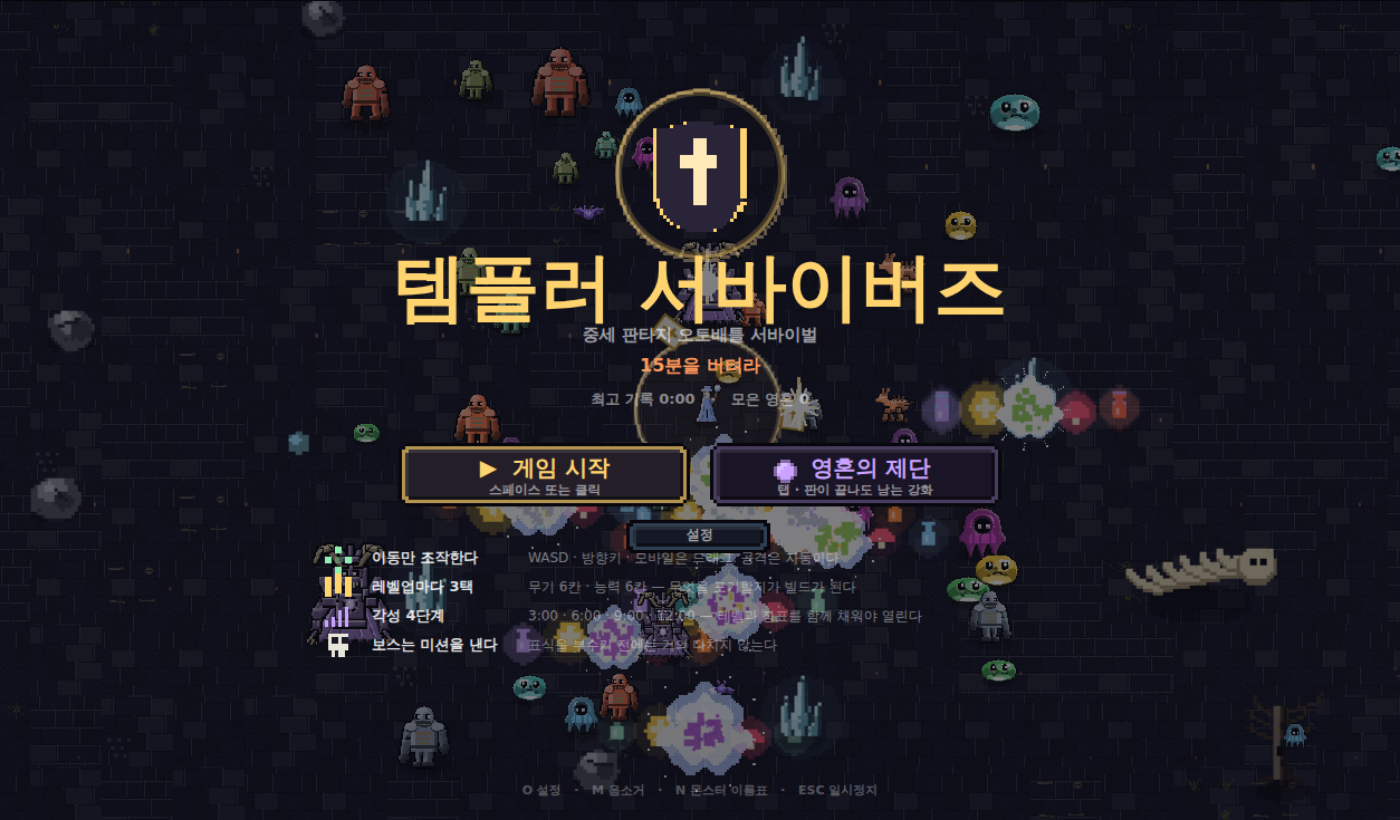
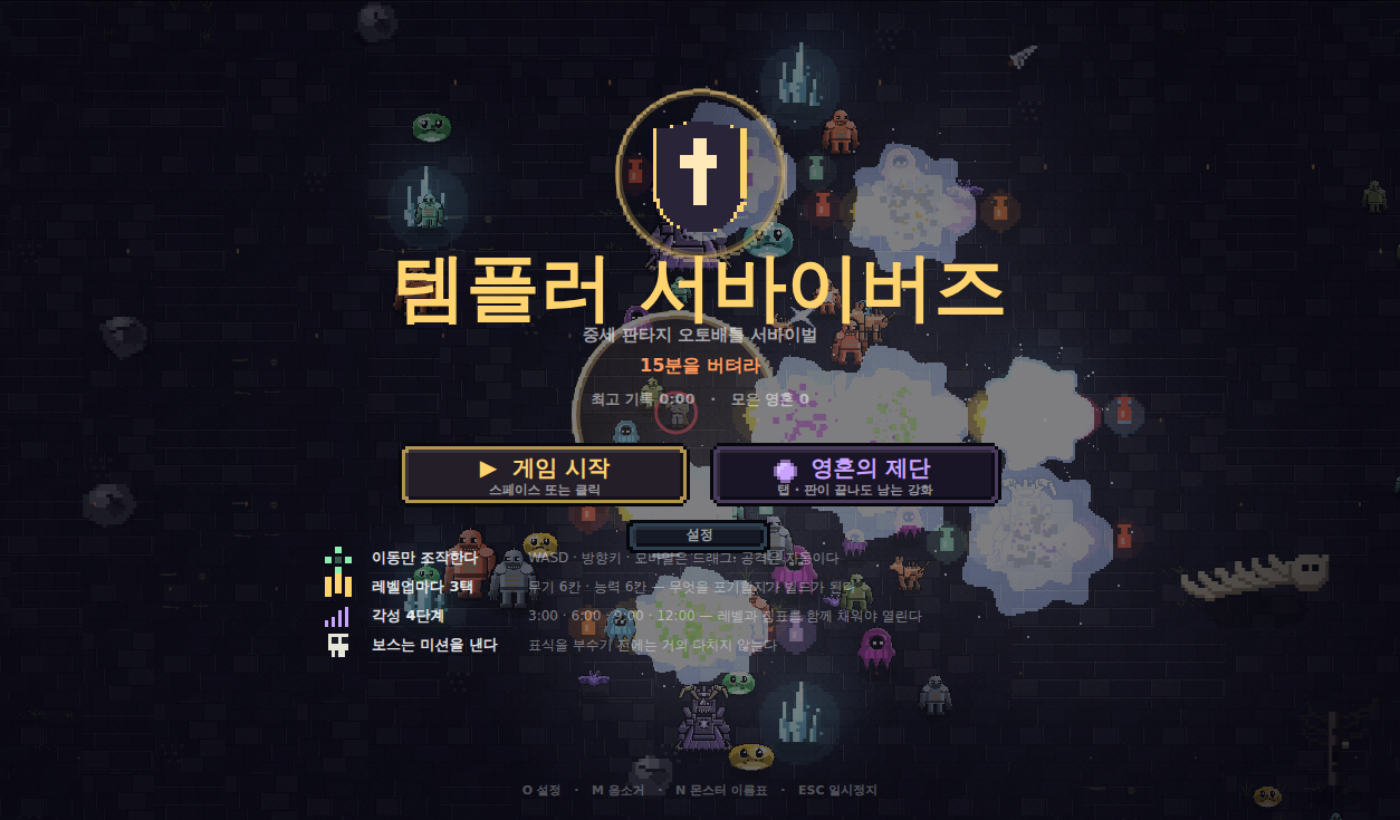
빛 — 화면 전체가 같은 밝기였다
레퍼런스 그림과의 차이 중 픽셀 수로 설명되지 않는 가장 큰 것. 그림을 한 픽셀도
다시 그리지 않고 공간이 생긴다.

화면 1/4 크기 판에 어둠을 깔고 광원 자리를 destination-out 으로 지운 뒤,
보간 없이 확대해 월드 위에 덮는다. 1/4 로 그리는 것이 핵심이다 — 원본 해상도로
그리면 매끈한 그라디언트가 되어 격자에 맞춘 나머지 전부와 재질이 어긋난다.
낮은 해상도에서 그린 뒤 늘리면 빛도 계단이 된다.

구멍을 뚫으면 그 자리는 원래 밝기일 뿐이라 불이 '타고 있다'가 안 된다.
같은 판을 한 번 더 써서 화톳불·수정·폭발 자리에 속성색을 lighter 로 더한다.

여기서 틀린 것: 타격 이펙트까지 광원으로 두니 후반에 백 개가 겹쳐 화면이
하얗게 날아갔다(폭발만, 여덟 개까지) · 정거리 감쇠는 가장자리에 동그란 테를
남긴다(단계를 넷으로) · 계측을 두 번 잘못 짜서 '조명 켠 쪽이 더 빠르다'가
나왔다(frame() 전체를 재면 update() 가 값을 삼킨다).

계측: drawLighting() 이 적 211마리에서 중앙 1.00ms — 60fps 예산의 6%.
어두우면 못 보겠다는 사람이 반드시 나오므로 설정에 끔/약하게/기본을 뒀다.

테스트 16종 전부 통과.

Claude-Session: https://claude.ai/code/session_01Lk8ZeD5vbnXzdEzvLkpny8

diff --git a/game/index.html b/game/index.html
@@ -121,11 +121,11 @@ function hash2(x, y) {
    화면 흔들림이 불편하다든가, 숫자가 어지럽다든가 — 어느 것도 손댈 수가 없었다.
    값은 단계로만 둔다. 슬라이더는 터치에서 잡기 어렵고, 이 정도 항목에 과하다. */
 const Opt = {
-  sfx: 4, music: 4, shake: 2, names: 1, numbers: 1,
+  sfx: 4, music: 4, shake: 2, names: 1, numbers: 1, light: 2,
   load() {
     try {
       const o = JSON.parse(localStorage.getItem("ts_opt") || "{}");
-      for (const k of ["sfx", "music", "shake", "names", "numbers"])
+      for (const k of ["sfx", "music", "shake", "names", "numbers", "light"])
         if (typeof o[k] === "number") this[k] = o[k];
     } catch (e) { /* 못 읽어도 기본값으로 돈다 */ }
   },
@@ -133,7 +133,7 @@ const Opt = {
     try {
       localStorage.setItem("ts_opt", JSON.stringify({
         sfx: this.sfx, music: this.music, shake: this.shake,
-        names: this.names, numbers: this.numbers }));
+        names: this.names, numbers: this.numbers, light: this.light }));
     } catch (e) { /* 저장 불가여도 게임은 돈다 */ }
   },
   sfxVol() { return this.sfx / 4 * .25; },
@@ -152,6 +152,8 @@ const OPT_ROWS = [
   { key: "shake",   name: "화면 흔들림",  max: 2, labels: ["끔", "절반", "기본"] },
   { key: "names",   name: "몬스터 이름표", max: 1, labels: ["끔", "켬"] },
   { key: "numbers", name: "피해 숫자",     max: 1, labels: ["끔", "켬"] },
+  /* 어두우면 못 보겠다는 사람이 반드시 나온다. 이건 분위기지 정보가 아니므로 끌 수 있어야 한다. */
+  { key: "light",   name: "조명",          max: 2, labels: ["끔", "약하게", "기본"] },
 ];
 Opt.load();
 
@@ -6299,6 +6301,135 @@ function advColor() {
 
 let selectedClass = 0;
 
+/* ---------- 빛 ----------
+   여기까지 오면서 그림은 조밀해졌는데 화면은 여전히 '전부 같은 밝기'였다.
+   레퍼런스 그림과의 차이 중 픽셀 수로 설명되지 않는 가장 큰 것이 이것이다 —
+   화톳불 옆이 밝고 구석이 어두우면 같은 그림도 공간이 된다.
+
+   방식: 화면 크기의 1/4 짜리 판에 어둠을 깔고, 광원 자리를 지워(destination-out)
+   구멍을 낸 뒤, 그 판을 확대해 월드 위에 덮는다.
+
+   1/4 로 그리는 것이 핵심이다. 원본 해상도로 그리면 매끈한 그라디언트가 되어
+   이 게임의 다른 모든 것(격자에 맞춘 픽셀)과 재질이 어긋난다.
+   낮은 해상도에서 그린 뒤 보간 없이 늘리면 빛도 계단이 된다 —
+   스프라이트의 lightMap 을 3단계로 끊은 것과 같은 이유다. */
+const LIGHT_K = 4;
+let lightCv = null, lightCtx = null;
+function drawLighting() {
+  if (!Opt.light) return;
+  const lw = Math.ceil(W / LIGHT_K), lh = Math.ceil(H / LIGHT_K);
+  if (!lightCv) { lightCv = document.createElement("canvas"); lightCtx = lightCv.getContext("2d"); }
+  if (lightCv.width !== lw || lightCv.height !== lh) { lightCv.width = lw; lightCv.height = lh; }
+  const g2 = lightCtx;
+  const str = Opt.light === 1 ? .55 : 1;           // '약하게'
+  g2.setTransform(1, 0, 0, 1, 0, 0);
+  g2.globalCompositeOperation = "source-over";
+  g2.clearRect(0, 0, lw, lh);
+  g2.fillStyle = "rgba(8,6,22," + (.34 * str).toFixed(3) + ")";
+  g2.fillRect(0, 0, lw, lh);
+  // 가장자리를 더 어둡게 — 시선이 가운데로 모인다
+  const vg = g2.createRadialGradient(lw / 2, lh / 2, lh * .32, lw / 2, lh / 2, lh * .95);
+  vg.addColorStop(0, "rgba(6,4,16,0)");
+  vg.addColorStop(1, "rgba(6,4,16," + (.30 * str).toFixed(3) + ")");
+  g2.fillStyle = vg; g2.fillRect(0, 0, lw, lh);
+
+  g2.globalCompositeOperation = "destination-out";
+  const punch = (wx, wy, r, core) => {
+    const cx = (wx - cam.x) / LIGHT_K, cy = (wy - cam.y) / LIGHT_K, rr = r / LIGHT_K;
+    if (cx < -rr || cx > lw + rr || cy < -rr || cy > lh + rr) return;
+    /* 정거리 감쇠(0→.5→1)는 가장자리에 동그란 테를 남긴다.
+       실제 빛처럼 안쪽은 완만하고 바깥으로 갈수록 빨리 죽게 단계를 더 준다. */
+    const k = core === undefined ? 1 : core;
+    const gr = g2.createRadialGradient(cx, cy, 0, cx, cy, rr);
+    gr.addColorStop(0, "rgba(0,0,0," + k.toFixed(3) + ")");
+    gr.addColorStop(.40, "rgba(0,0,0," + (k * .82).toFixed(3) + ")");
+    gr.addColorStop(.68, "rgba(0,0,0," + (k * .44).toFixed(3) + ")");
+    gr.addColorStop(.87, "rgba(0,0,0," + (k * .14).toFixed(3) + ")");
+    gr.addColorStop(1, "rgba(0,0,0,0)");
+    g2.fillStyle = gr;
+    g2.beginPath(); g2.arc(cx, cy, rr, 0, TAU); g2.fill();
+  };
+
+  /* 광원. 주인공은 반드시 넣는다 — 자기 발밑이 어두우면 게임이 안 된다. */
+  punch(player.x, player.y, 310 + (player.stance ? 50 : 0));
+  for (const o of obstacles) {
+    if (o.kind === "brazier") punch(o.x, o.y - o.r * .4, o.r * 7 + Math.sin(Game.time * 6 + o.seed * 9) * 8);
+    else if (o.kind === "crystal") punch(o.x, o.y - o.r, o.r * 4.2, .8);
+    else if (o.kind === "obelisk") punch(o.x, o.y - o.r * 2, o.r * 3.4, .6);
+  }
+  for (const st of structures) punch(st.x, st.y, st.r * 2.6, .75);
+  for (const lm of landmarks) punch(lm.x, lm.y, 130, .8);
+  for (const e of enemies) {
+    if (!e.active) continue;
+    if (e.boss || e.elite) punch(e.x, e.y, e.r * 4, .8);
+  }
+  /* 폭발은 그 순간 방을 밝힌다. 다만 타격 이펙트까지 광원으로 두면 안 된다 —
+     후반에는 한 프레임에 백 개가 뜨고, 그만큼 겹치면 화면이 하얗게 날아간다.
+     (실제로 그렇게 나왔다.) 폭발만, 그것도 여덟 개까지. */
+  let nfx = 0;
+  for (const f of fxs) {
+    if (!f.active || f.key.indexOf("fx_boom") !== 0) continue;
+    const t = clamp(f.life / f.maxLife, 0, 1);
+    punch(f.x, f.y, ATLAS_FRAMES[f.key].w * f.scale * 1.5 * (1.2 - t * .4), t * .9);
+    if (++nfx >= 8) break;
+  }
+
+  const blit = () => {
+    ctx.save();
+    ctx.setTransform(canvas.width / W, 0, 0, canvas.width / W, 0, 0);
+    ctx.imageSmoothingEnabled = false;
+    ctx.drawImage(lightCv, 0, 0, lw, lh, 0, 0, lw * LIGHT_K, lh * LIGHT_K);
+    ctx.restore();
+    ctx.imageSmoothingEnabled = false;
+  };
+  blit();
+
+  /* 따뜻한 덧빛. 어둠을 걷어내기만 해서는 불이 '타고 있다'가 안 된다 —
+     걷어낸 자리는 그냥 원래 밝기일 뿐이다. 색을 얹어야 광원이 된다.
+     같은 판을 지우고 다시 써서 캔버스를 하나만 쓴다. */
+  g2.globalCompositeOperation = "source-over";
+  g2.clearRect(0, 0, lw, lh);
+  let warm = false;
+  const glow = (wx, wy, r, col, a) => {
+    const cx = (wx - cam.x) / LIGHT_K, cy = (wy - cam.y) / LIGHT_K, rr = r / LIGHT_K;
+    if (cx < -rr || cx > lw + rr || cy < -rr || cy > lh + rr) return;
+    const c = hexRGB(col);
+    const gr = g2.createRadialGradient(cx, cy, 0, cx, cy, rr);
+    gr.addColorStop(0, "rgba(" + c + "," + (a * str).toFixed(3) + ")");
+    gr.addColorStop(.35, "rgba(" + c + "," + (a * str * .5).toFixed(3) + ")");
+    gr.addColorStop(.65, "rgba(" + c + "," + (a * str * .18).toFixed(3) + ")");
+    gr.addColorStop(1, "rgba(" + c + ",0)");
+    g2.fillStyle = gr;
+    g2.beginPath(); g2.arc(cx, cy, rr, 0, TAU); g2.fill();
+    warm = true;
+  };
+  for (const o of obstacles) {
+    if (o.kind === "brazier")
+      glow(o.x, o.y - o.r * .4, o.r * 6 + Math.sin(Game.time * 6 + o.seed * 9) * 8, "#ff8a3c", .34);
+    else if (o.kind === "crystal") glow(o.x, o.y - o.r, o.r * 3.4, o.K.color, .2);
+  }
+  let gfx = 0;
+  for (const f of fxs) {
+    if (!f.active || f.key.indexOf("fx_boom") !== 0) continue;
+    const t = clamp(f.life / f.maxLife, 0, 1);
+    const el = f.key.split("_")[2];
+    if (!el || !ELEMENTS[el]) continue;
+    glow(f.x, f.y, ATLAS_FRAMES[f.key].w * f.scale * 1.6, ELEMENTS[el].color, .2 * t);
+    if (++gfx >= 8) break;
+  }
+  if (warm) {
+    ctx.globalCompositeOperation = "lighter";
+    blit();
+    ctx.globalCompositeOperation = "source-over";
+  }
+}
+
+// "#rrggbb" → "r,g,b" — 그라디언트에 알파를 따로 붙이려면 숫자로 풀어야 한다
+function hexRGB(h) {
+  return parseInt(h.substr(1, 2), 16) + "," + parseInt(h.substr(3, 2), 16) + "," +
+         parseInt(h.substr(5, 2), 16);
+}
+
 /* ---------- HUD ---------- */
 function fmtTime(t) {
   const m = Math.floor(t / 60), s = Math.floor(t % 60);
@@ -8551,6 +8682,8 @@ function frame(now) {
   // 메뉴에서도 월드를 그린다 — 그 위를 각 메뉴가 반투명하게 덮는다
   drawWorld();
   ctx.restore();
+
+  drawLighting();
 
   // 메뉴에서는 HUD 를 그리지 않는다. 뒤에서 데모가 굴러가도 그건 '배경'이지 내 판이 아니다.
   if (!inMenu) {

diff --git a/docs/art-spec.md b/docs/art-spec.md
@@ -1154,3 +1154,52 @@ const ch = bottom + 30;                       // [번호] 자리를 남긴다
 `drawMenuIcon` 은 `rows.length` 로 격자를 읽으므로 글리프마다 크기를 달리해도 된다.
 그래도 7×7 을 지켰다 — 글자 옆에 붙는 자리가 있어서 키우면 겹친다.
 **7칸에서 안 읽히면 모양을 바꿔야지 칸을 늘릴 일이 아니다.**
+
+## 30. 빛 — 픽셀 수로 설명되지 않는 차이
+
+레퍼런스 그림과 우리 화면을 나란히 놓고 보면, 차이의 상당 부분이 **해상도가 아니다.**
+큰 것 셋을 꼽으면 이렇다.
+
+| | 우리 | 레퍼런스 | 픽셀 수 문제인가 |
+|---|---|---|---|
+| 조명 | 화면 전체가 같은 밝기 | 화톳불 옆이 밝고 구석이 어둡다 | **아니다** |
+| 화면 속 캐릭터 크기 | 폭의 2.5% (32px) | 폭의 8% 안팎 | **아니다** (카메라 문제) |
+| 캐릭터에 그려 넣은 것 | 절차 생성의 한계 | 손으로 그린 시트 | 그렇다 |
+
+이 절은 첫 번째를 다룬다. 셋 중 **비용 대비 효과가 압도적으로 크다** —
+그림을 한 픽셀도 다시 그리지 않고 공간이 생긴다.
+
+### 방식
+
+화면 1/4 크기 판에 어둠을 깔고, 광원 자리를 `destination-out` 으로 지워 구멍을 낸 뒤,
+그 판을 **보간 없이** 확대해 월드 위에 덮는다.
+
+**1/4 로 그리는 것이 핵심이다.** 원본 해상도로 그리면 매끈한 그라디언트가 되어
+격자에 맞춘 나머지 전부와 재질이 어긋난다. 낮은 해상도에서 그린 뒤 늘리면 빛도 계단이 된다 —
+스프라이트의 `lightMap` 을 3단계로 끊은 것과 같은 이유다.
+
+### 어둠을 걷는 것만으로는 불이 안 된다
+
+구멍을 뚫으면 그 자리는 **원래 밝기**일 뿐이다. 불은 색을 얹어야 광원이 된다.
+그래서 같은 판을 지우고 한 번 더 써서, 화톳불·수정·폭발 자리에 속성색을 `lighter` 로 더한다.
+
+### 여기서 틀린 것
+
+**① 타격 이펙트를 광원으로 두면 화면이 하얗게 날아간다.** 후반에는 한 프레임에 백 개가 뜬다.
+폭발만, 그것도 여덟 개까지로 잘랐다.
+
+**② 정거리 감쇠(0→.5→1)는 가장자리에 동그란 테를 남긴다.** 안쪽은 완만하고
+바깥으로 갈수록 빨리 죽게 단계를 넷으로 늘렸다.
+
+**③ 계측을 두 번 잘못 짰다.** `frame()` 전체를 재니 `update()` 가 값을 삼켜
+'조명 켠 쪽이 더 빠르다'는 결과가 나왔다. `drawLighting()` 만 직접 재야 한다.
+
+### 계측
+
+| | 값 |
+|---|---|
+| `drawLighting()` (적 211마리) | 중앙 **1.00ms** · 상위10% 1.20ms |
+| 프레임 예산(60fps) 대비 | 6% |
+
+**끌 수 있게 했다.** 어두우면 못 보겠다는 사람이 반드시 나오고, 이건 분위기지 정보가 아니다.
+설정에 `조명 — 끔 / 약하게 / 기본`.
